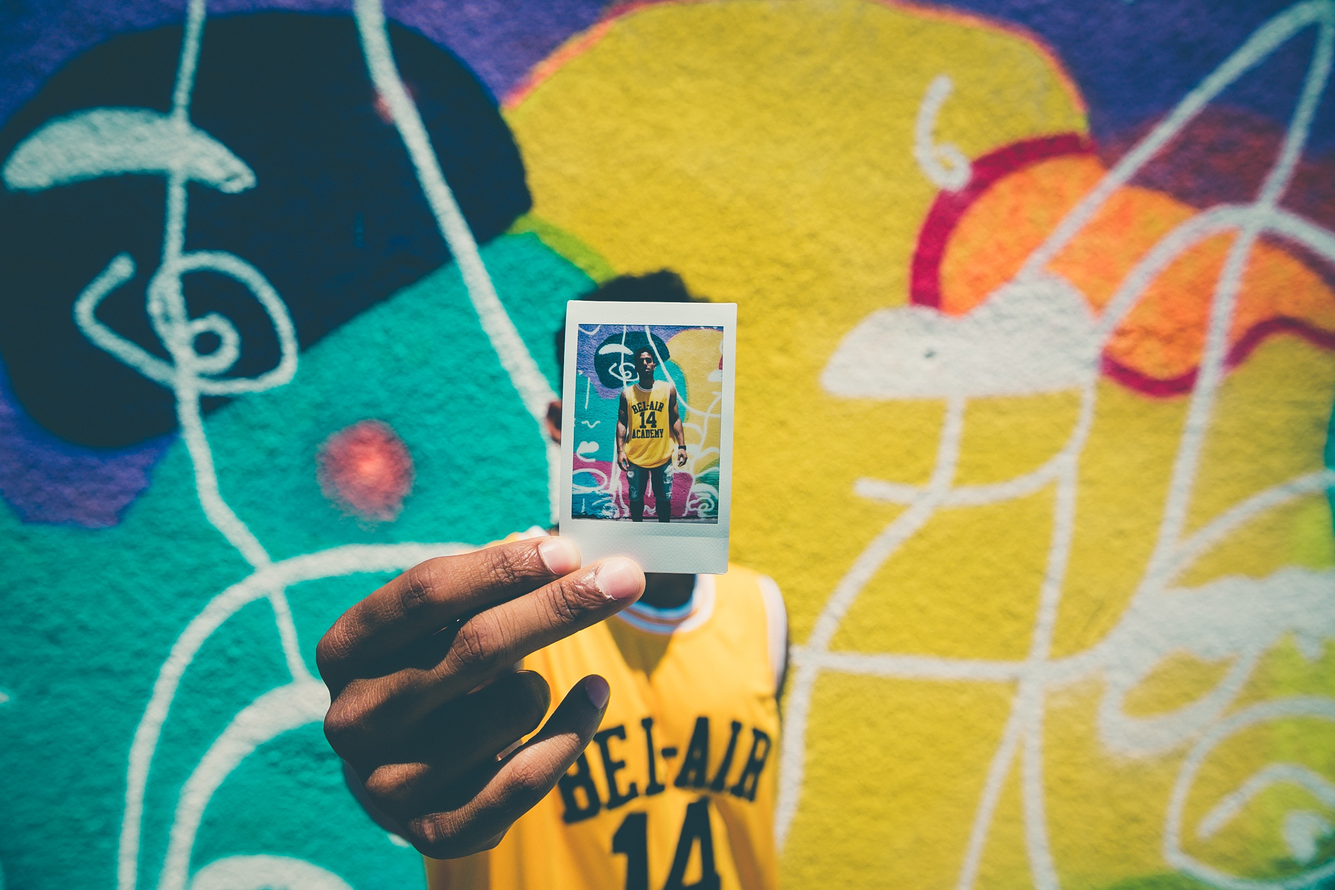
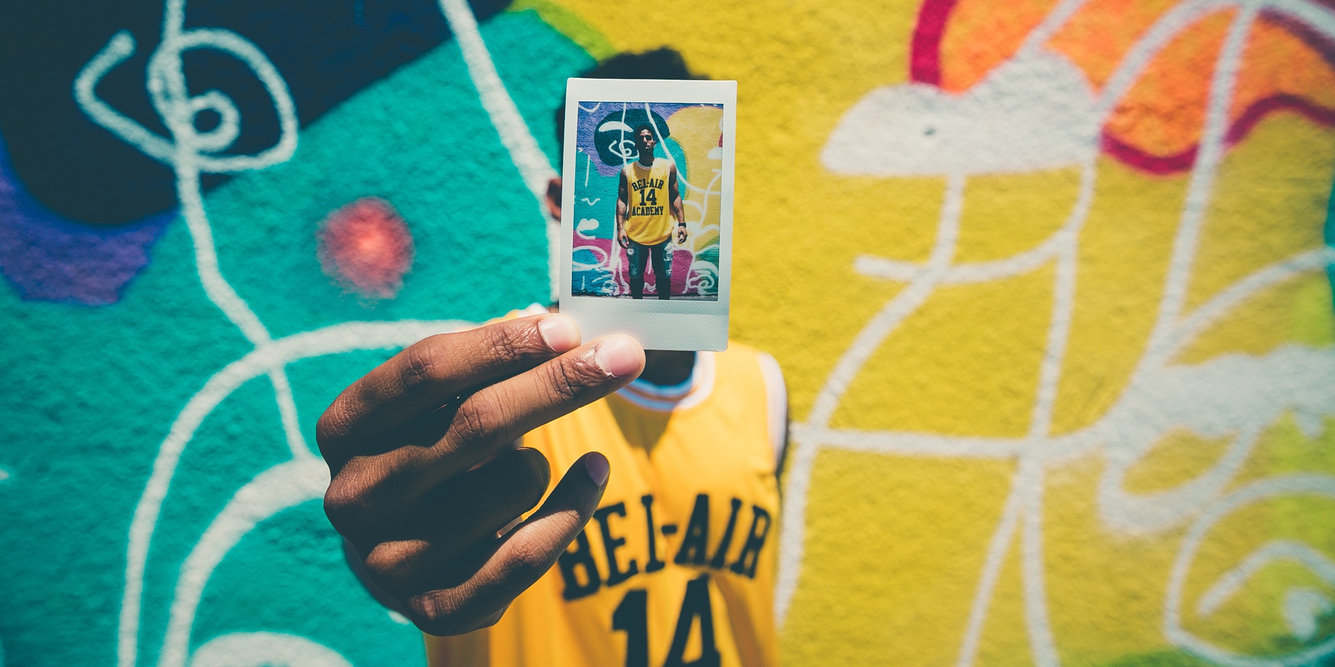
css en cours

diff --git a/app/assets/stylesheets/pages/_home.scss b/app/assets/stylesheets/pages/_home.scss
@@ -1,45 +1,49 @@
 // Specific CSS for your home-page
 
+.banner-home {
+  color: white;
+  text-align: center;
+  height: 100vh;
+  /* if you have a 70px navbar => height: calc(100vh - 70px); */
+  background-size: cover !important;
+  display: flex;
+  align-items: center;
+  justify-content: center;
+  padding: 10px 10px;
+}
+
+.banner-home-content {
+  padding: 10px 10px;
+}
+
+.banner-home h1 {
+  text-shadow: 0px 1px rgba(0, 0, 0, 0.2);
+}
+
+.banner-home h3 {
+  opacity: 0.95;
+}
+
 .story-card {
   border: 2px solid black;
-  padding: 30px 30px;
-  margin: 40px 20px;
-}
-.story-card h3 {
-  font-weight: regular;
-  margin-top:30px;
+  padding: 0px 15px;
+  margin: 15px 15px;
 }
 
 .value {
-  padding: 30px 30px;
+  margin: 30px 0;
+  display: flex;
+  align-items: center;
 }
 
-.value-card {
-  margin: 30px 30px;
-}
-
-.value-desc {
-  min-height: 17vh;
+.value-content {
+  padding: 0 10px;
 }
 
 .value-photo {
   padding: 15px 15px 15px 15px;
   border-radius: 3px;
   width: 100%;
-}
-
-.value h4 {
-  font-size: 24px;
-  font-weight: regular;
-  letter-spacing: 1px;
-  box-shadow: inset 0 -10px 0 rgba(80,227,194,0.6);
-  border-bottom: 3px solid rgba(80,227,194,0.6)
-
-}
-
-.value p {
-  font-size: 18px;
-  font-weight: regular;
 }
 
 .review {

diff --git a/app/assets/stylesheets/config/_bootstrap_variables.scss b/app/assets/stylesheets/config/_bootstrap_variables.scss
@@ -23,3 +23,36 @@ $border-radius-large: 2px;
 $border-radius-small: 2px;
 
 // Override other variables below!
+
+h1 {
+  font-size: 42px !important;
+  font-weight: 500 !important;
+  padding: 10px 0 !important;
+}
+
+h2 {
+  font-size: 34px !important;
+  font-weight: 400 !important;
+  padding: 10px 0 !important;
+}
+
+h3 {
+  font-size: 28px !important;
+  font-weight: lighter !important;
+  letter-spacing: 1px !important;
+  padding: 10px 0 !important;
+}
+
+p {
+  font-size: 18px !important;
+}
+
+h4 {
+  font-size: 22px !important;
+  font-weight: 400;
+  width: -webkit-max-content;
+  width: -moz-max-content;
+  width: max-content;
+  box-shadow: inset 0 -12px 0 rgba(80,227,194,0.6);
+  border-bottom: 3px solid rgba(80,227,194,0.6) !important;
+}

diff --git a/app/assets/stylesheets/components/_carousel.scss b/app/assets/stylesheets/components/_carousel.scss
@@ -1,11 +1,3 @@
-.experience {
-  padding: 30px 30px;
-}
-
-.experience h1 {
-  margin-bottom: 30px;
-}
-
 @media screen and (min-width: 768px){
 .carousel-caption {
     padding-bottom: 50px !important;
@@ -16,16 +8,4 @@
   height: 100% !important;
   width: 100% !important;
   opacity: 0.9;
-}
-
-.carousel-caption h1 {
-  font-size: 50px;
-  font-weight: bold;
-  letter-spacing: 1px;
-  text-shadow: 0px 1px rgba(0, 0, 0, 0.2);
-}
-
-.carousel-caption h3 {
-  font-size: 30px;
-  font-weight: lighter;
 }

diff --git a/app/assets/stylesheets/components/_banner.scss b/app/assets/stylesheets/components/_banner.scss
@@ -25,20 +25,3 @@
   font-weight: lighter;
   opacity: 0.95;
 }
-
-.btn-medium {
-  color: #F9F9F9;
-  border: 1px solid #F9F9F9;
-  padding: 10px 15px;
-  border-radius: 2px;
-  border-width: medium;
-  font-weight: lighter;
-  font-size: 20px;
-  opacity: 1;
-}
-
-.btn-medium:hover {
-  opacity: 0.6;
-  text-decoration: none;
-  color: #F9F9F9;
-}
